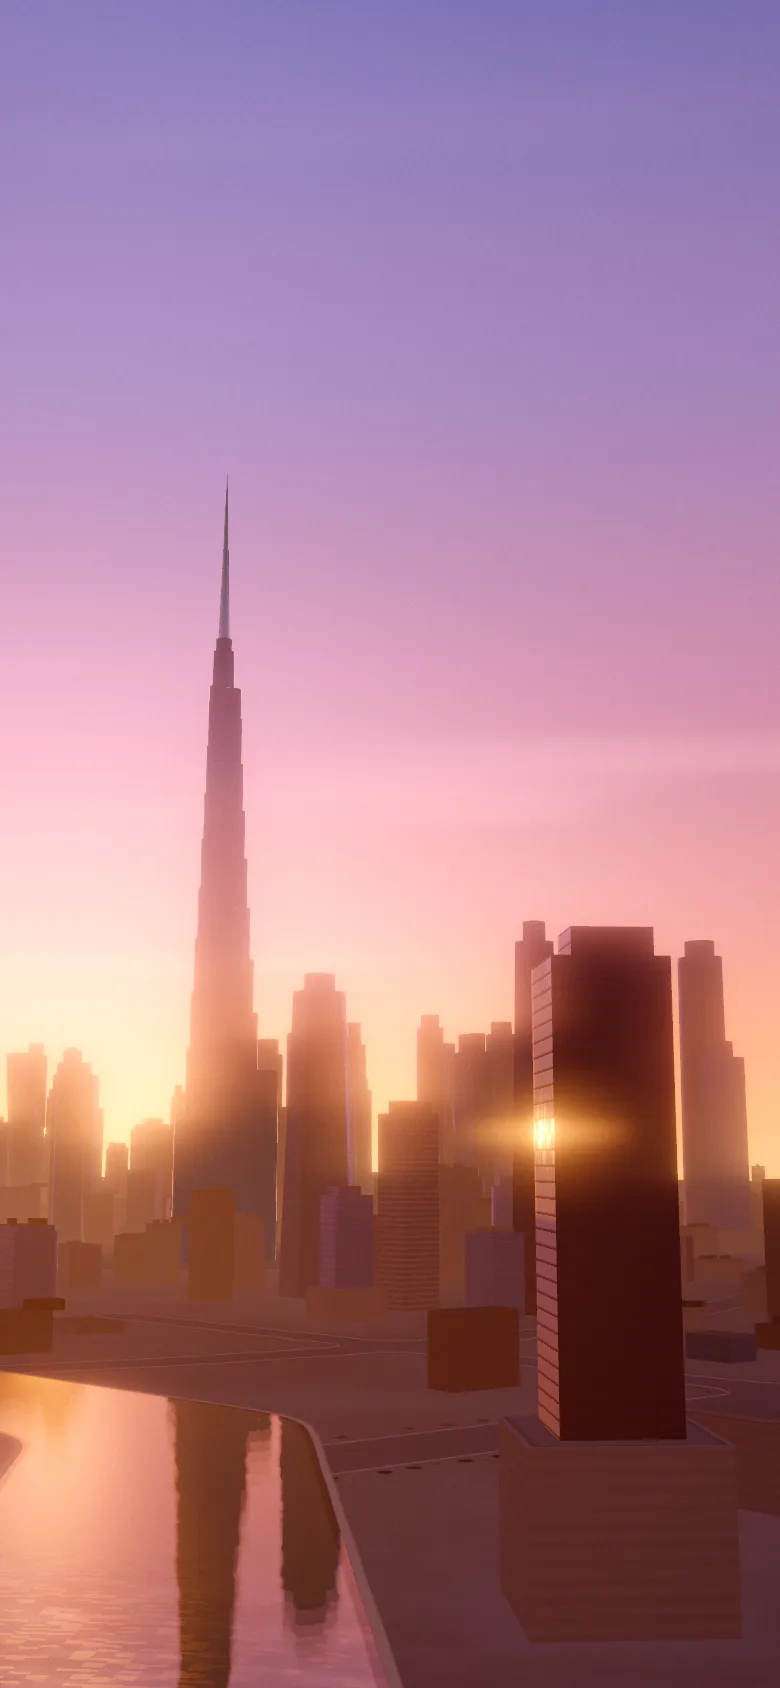
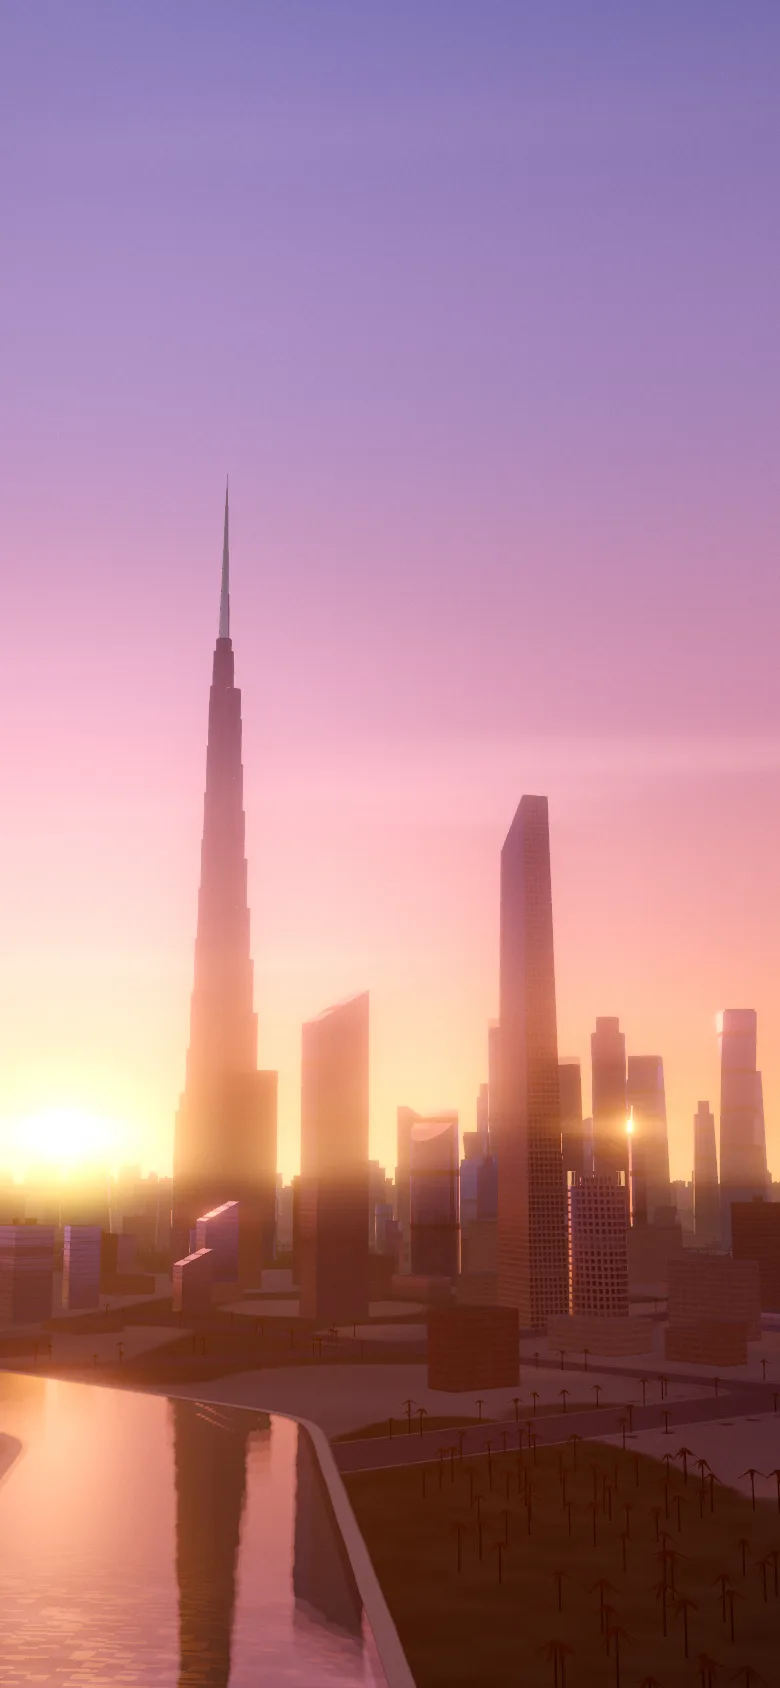
Update AS BUILT preview: glass look, 603 moment, fallbacks and new posters
Glass towers with sky reflections, parks and water; blue-hour 603 moment
with a lit room; night windows as rooms; reduced-motion / no-WebGL /
Save-Data poster stacks; copy no longer clips; posters re-rendered.
Root files (the client's live preview) are unchanged.

Claude-Session: https://claude.ai/code/session_019XV7YscBaoDZLbzde4orph

Changed region(s): [[0.0, 0.4621, 1.0, 1.0]]

diff --git a/as-built/assets/css/journey.css b/as-built/assets/css/journey.css
@@ -222,8 +222,10 @@ html:not(.js) .journey__caption,.jr-static .journey__caption,.jr-poster .journey
   .ch--04 .ch__label,.ch--04 .ch__serif{color:#F7CFDF;text-shadow:0 0 2px rgba(7,11,28,.6),0 0 16px rgba(7,11,28,.45)}
   .ch--04 .ch__label{color:var(--porcelain,#F1ECE3)}
   .ch--04 .ch__label,.ch--04 .ch__readout{text-shadow:0 0 2px rgba(7,11,28,.8),0 0 10px rgba(7,11,28,.62),0 0 24px rgba(7,11,28,.4)}
-  /* 03 (bright haze) and 05 (lit dusk sky) labels sit above the phone scrim: a firmer halo keeps the 11.5px mono at 4.5:1 */
-  .ch--03 .ch__label,.ch--05 .ch__label{text-shadow:0 0 2px rgba(7,11,28,.85),0 0 9px rgba(7,11,28,.72),0 0 22px rgba(7,11,28,.5)}
+  /* 03 (bright haze) and 05 (the warm horizon showing between the towers) put the 11.5px mono label on the brightest
+     band of the phone frame: a firmer halo, and the label sits on a soft Ink pad (a blurred rounded rect hugging it) */
+  .ch--03 .ch__label,.ch--05 .ch__label{position:relative;isolation:isolate;width:fit-content;text-shadow:0 0 2px rgba(7,11,28,.85),0 0 9px rgba(7,11,28,.72),0 0 22px rgba(7,11,28,.5)}
+  .ch--03 .ch__label::after,.ch--05 .ch__label::after{content:"";position:absolute;inset:-7px -14px -7px -10px;z-index:-1;border-radius:12px;background:rgba(7,11,28,.58);filter:blur(9px);pointer-events:none}
   .ch__serif{font-size:clamp(24px,7vw,32px)}
   .ch__body{margin-top:16px;font-size:15.5px;line-height:1.55}
   .ch__ctas{margin-top:22px}

diff --git a/as-built/assets/js/journey/labels.js b/as-built/assets/js/journey/labels.js
@@ -23,11 +23,14 @@ export function makeLabels({ root, camera, anchor }) {
       v.copy(anchor).project(camera);
       if (v.z > 1 || Math.abs(v.x) > 1.2 || Math.abs(v.y) > 1.2) { el.style.opacity = '0'; shown = false; return; }
       const x = (v.x * 0.5 + 0.5) * w, y = (0.5 - v.y * 0.5) * h;
+      // portrait: the chapter copy owns the lower half, so the label fades out before it can sit on the headline
+      const vis = h > w ? on * (1 - sm(h * 0.4, h * 0.46, y)) : on;
+      if (vis <= 0.001) { if (shown) { el.style.opacity = '0'; shown = false; } return; }
       // the leader runs away from the frame edge it is nearest to
       const want = x > w * 0.62 ? 1 : 0;
       if (want !== side || !shown) { side = want; el.classList.toggle('is-left', side === 1); }
       shown = true;
-      el.style.opacity = on.toFixed(3);
+      el.style.opacity = vis.toFixed(3);
       el.style.transform = `translate3d(${x.toFixed(1)}px,${y.toFixed(1)}px,0)`;
       const d1 = sm(0.556, 0.563, p), d2 = sm(0.561, 0.569, p), t = sm(0.565, 0.574, p);
       set(ring, `translate(-50%,-50%) scale(${(0.4 + 0.6 * sm(0.553, 0.558, p)).toFixed(3)})`);

diff --git a/as-built/assets/js/site.js b/as-built/assets/js/site.js
@@ -655,6 +655,9 @@
         if (formsOnScreen.size) hideTeaser(); else tryShow();
       }, { threshold: 0 });
       $$('.form, .leadgrid, .sendbox, .ctaband').forEach(f => fo.observe(f));
+      /* on phones the journey copy fills the screen, so the teaser waits until the pin is over */
+      const journey = $('.journey');
+      if (journey && matchMedia('(max-width: 760px)').matches) fo.observe(journey);
       document.addEventListener('focusin', e => { if (e.target.closest && e.target.closest('form') && e.target.matches('input,select,textarea')) hideTeaser(); });
       document.addEventListener('focusout', () => setTimeout(tryShow, 50));
       if (!store.get('lh-nyla-seen')) setTimeout(() => { if (!store.get('lh-nyla-seen')) { due = true; tryShow(); } }, 7000);
